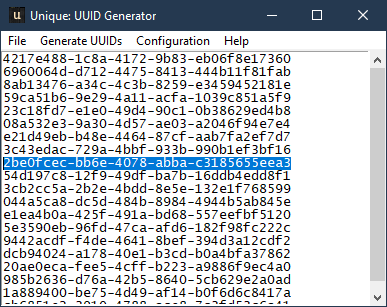
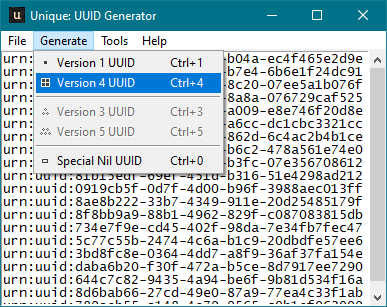
updated readme with gui and Unique() class changes

diff --git a/README.md b/README.md
@@ -1,5 +1,5 @@
-# Unique: UUID Generation (in Python) ![](icon/32.png)
-"Unique", the UUID generator tool. ```unique_gui.py``` and ```unique.py``` will generate UUIDs in a variety of flavours. This project builds on code originally developed in 2016; leveraging different python libraries to provide all the uuid related features in a single project. Windows Executables created with pyinstaller 4.0.
+# Unique: UUID Generation (in Python) ![](unique/icon/32.png)
+"Unique": the UUID generator tool. ```unique.py``` will generate UUIDs (using a CLI) in a variey of flavours whilst ```unique_gui.py``` wraps this up in a pretty GUI. This project in availble as native python source, a windows executable and docker image.
 
 >__Note:__ A Version 4 UUID is the default, safe and extremely random output of this tool.
 
@@ -26,41 +26,58 @@ A universally unique identifier (UUID) is a 128-bit number used to identify info
 * [MAC Address](https://www.ibm.com/support/knowledgecenter/en/SSYKE2_7.0.0/com.ibm.java.security.component.70.doc/security-component/keytoolDocs/x500dnames.html)
 
 # Usage
-## Grapphical User Interface (```unique_gui.py```)
-Using the ```tkinter``` library, a gui is available to generate UUIDs for those not comfortable with the command line. Simply open/execute ```% python3 unique_gui.py```/```unique-gui.exe``` to be presented with the following grpahical interface:
+## Graphical User Interface (```unique_gui.py```)
+Using the ```tkinter``` library, a gui is available to generate UUIDs for those not comfortable with the command line. Simply open/execute ```python3 unique_gui.py``` to be presented with the following graphical interface:
 
-Windows                  | Linux
--------------------------|---------------
-![](screenshots/gui.png) | <span style="color:red">Work in Progres...</span>
+&nbsp;    | Windows                           | Linux
+----------|-----------------------------------|--------------------------
+_Unique_  | ![](screenshot-win10.gif)         | ![](screenshot-linux.png)
+Options   | ![](screenshot-win10-options.png) | ![](screenshot-linux.png)
+About     | ![](screenshot-win10-about.png)   | ![](screenshot-linux.png)
 
 <br>
 
 The following Menu options are availble:
 * File
   * __New__: Clear-down the UUIDs in the current tool, ready for new generation
-  * __Open__: Open a text (```.txt```) file, useful for appending UUIDs
-  * __Save__: Save the current UUIDs to a text (```.txt```) file
+  * __Open__: Open a text (```.txt```/```.uuid```) file, useful for appending UUIDs
+  * __Save__: Save the current UUIDs to a text (```.txt```/```.uuid```) file
+  * __Save As..__: Save the current UUIDs to a new text (```.txt```/```.uuid```) file
   * __Quit__
 * Generate
-  * __Version 1__: Generare a Version 1 (Datetime & MAC Address) UUID
-  * __Version 4__: Generate a Version 4 UUID (based on RNG)
-  * ~~__Version 3__: Generate a Version 3 (MD5, Namespace & Name-based) UUID~~ (<span style="color:red">Work in Progres</span>)
-  * ~~__Version 5__: Generate a Version 5 (SHA-1, Namespace & Name-based) UUID~~
-  * __Special Nil UUID__: Generate a Nil UUID (_0's_) (<span style="color:red">Work in Progres</span>)
+  * __Version 1 UUID__: Generare a Version 1 (Datetime & MAC Address) UUID
+  * __Version 4 UUID__: Generate a Version 4 UUID (based on RNG)
+  * ~~__Version 3 UUID__: Generate a Version 3 (MD5, Namespace & Name-based) UUID~~
+  * ~~__Version 5 UUID__: Generate a Version 5 (SHA-1, Namespace & Name-based) UUID~~
+  * __Special Nil UUID__: Generate a Nil UUID (_0's_)
 * Tools
   * __Options__: Open the Options popup
 * Help
   * __About__: Opens a popup window with author/version information
+
+The following Keyboard Shortcuts are available:
+* __CTRL + N__: Clear-down the UUIDs in the current tool,ready for new generation
+* __CTRL + O__: Open a text (```.txt```/```.uuid```) file,useful for appending UUIDs
+* __CTRL + S__: Save the current UUIDs to a text (```.txt``````.uuid```) file
+* __CTRL + 0__: Generate a Nil UUID (_0's_)
+* __CTRL + 1__: Generare a Version 1 (Datetime & MAC Address)UUID
+* ~~__CTRL + 3__: Generate a Version 3 (MD5, Namespace &Name-based) UUID~~
+* __CTRL + 4__: Generate a Version 4 UUID (based on RNG)
+* ~~__CTRL + 5__: Generate a Version 5 (SHA-1, Namespace &Name-based) UUID~~
+* __F1__: Opens a popup window with author/version information
+* __F9__: Open the Options popup
+* __ALT + F4__: Exit/Quit
+
 ## Command Line / Bash (```unique.py```)
 ### Summary
 The following arguments are compatible with the respective UUID-version generation.
 Version | Switch | Specifics                  | Additional Options (__Bold = Mandatory__)
 --------|--------|----------------------------|-------------------------------------------
-0 / Nil | -v 0   | Special Nil UUID           | -q, -u, -U
-1       | -v 1   | Datetime and MAC address   | -q, -u, -U
-4       | -v 4   | Random Data                | -q, -u, -U
-3       | -v 3   | Namespace & Name-based     | -q, -u, -U, __--ns__, __-n__
-5       | -v 5   | Namespace & Name-based     | -q, -u, -U, __--ns__, __-n__
+0 / Nil | -v 0   | Special Nil UUID           | -q, -u, -U, -s
+1       | -v 1   | Datetime and MAC address   | -q, -u, -U, -s
+4       | -v 4   | Random Data                | -q, -u, -U, -s
+3       | -v 3   | Namespace & Name-based     | __--ns__, __-n__, -q, -u, -U, -s
+5       | -v 5   | Namespace & Name-based     | __--ns__, __-n__, -q, -u, -U, -s
 
 ### Usage Examples (Windows)
 
@@ -98,7 +115,7 @@ urn:uuid:1FDC56DF-BB86-3F0D-9356-8612ABA227FF
 
 # Display Help
 >./unique.py --help
-usage: unique.py [-h] [-v <VERSION>] [-q <QUANTITY>] [--ns <NAMESPACE>] [-n <NAME>] [-u] [-U]
+usage: unique.py [-h] [-v <VERSION>] [-q <QUANTITY>] [--ns <NAMESPACE>] [-n <NAME>] [-u | -U | -s]
 
 Generate a number of version specific UUIDs.
 
@@ -114,10 +131,11 @@ optional arguments:
                         Specify UUID v3 or v4 name
   -u, --urn             Specify URN standard prefix
   -U, --uppercase       Non-standard uppercase UUID string
+  -s, --short           Shortened UUID using Base64 Encoding
 ```
 
 ### Usage Example (Linux)
-<span style="color:red">Work in Progres...</span>
+<span style="color:red">_Work in Progres..._</span>
 
 ## Docker (```docker run --rm -it uuid:latest```)
 The project's Dockerfile can be utilised to create a platform independant container image; supporting the generation of UUIDs in cloud (e.g. Kubernetes/OpenShift) environments.
@@ -151,12 +169,11 @@ $ docker run --rm -it uuid:latest --help
 ```Unique``` is build with utilising the following Python 3 libraries:
 
 * ```uuid```
-* ```argparse```
-* ```tk``` (_including:_ messagebox, simpledialog)
-* ```re```
-* ```sys```
-* ```logging```
 * ```codecs```
+* ```re```
+* ```argparse```
+* ```tk```/```tkinter``` (including: ```messagebox```, ```simpledialog```, ```filedialog```)
+* ```logging```
 * ```pyinstaller```
 
 To utilise ```unique``` on multiple platforms Python 3 is required.
@@ -185,6 +202,7 @@ sudo apt-get install python3
 ## Other Software
 The following software was used to create this project:
 * Graphics and Images created with: [Paint.net](https://www.getpaint.net)
+* Microsoft [Visual Studio Image Library](https://www.microsoft.com/en-us/download/details.aspx?id=35825)
 * Windows Icon (```.ico```) file created with: [IcoFX Portable (1.6.4 Rev 3)](https://portableapps.com/apps/graphics_pictures/icofx_portable)
 * IDE: [Microsoft Visual Studio Code](https://code.visualstudio.com)
 
@@ -193,9 +211,9 @@ The following software was used to create this project:
 ## Project Icon
 The following project icon was created with paint.net. Using a screenshot of Powershell executing the creation of 20 Version 1 UUIDs. 4 image resolutions where then produced and compiled into the single compressed ```.ico``` format.
 
-![](icon/256.png) | ![](icon/48.png) | ![](icon/32.png) | ![](icon/16.png)
-------------------|------------------|------------------|-----------------
-__256x256:__      | __48x48:__       | __32x32:__       | __16x16:__
+![](unique/icon/256.png) | ![](unique/icon/48.png) | ![](unique/icon/32.png) | ![](unique/icon/16.png)
+-------------------------|-------------------------|-------------------------|------------------------
+256x256                  | 48x48                   | 32x32                   | 16x16
 
 ## Known Limitations
 The following are known limitations and probably wont get fixed. Feel free to raise a pull request if you can help:
@@ -211,28 +229,28 @@ Thanks to these great projects I was able to figure out how to use tkinter for t
 ## Roadmap
 ```Unique``` is a hobby project with no guarantees. I've been thinking about adding the following functionaity somewhere down the line though!:
 
-* ~~Support for more than UUIDv4~~
-* ~~Make code more Unix-like (no boilerplate on execution)~~
-* ~~Parameterise the number of returned UUIDs~~
-* ~~Special Nil UUID~~
-* ~~Support for standard UUID URN prefix~~
-* ~~Support for non-standard uppercase UUID~~
-* ~~Auto-generated help~~
+* ~~```CLI:``` Support for more than UUIDv4~~
+* ~~```CLI:``` Make code more Unix-like (no boilerplate on execution)~~
+* ~~```CLI:``` Parameterise the number of returned UUIDs~~
+* ~~```CLI:``` Special Nil UUID~~
+* ~~```CLI:``` Support for standard UUID URN prefix~~
+* ~~```CLI:``` Support for non-standard uppercase UUID~~
+* ~~```CLI:``` Auto-generated help~~
 * ~~Redo the Icon~~
-* ~~Adding support for uuid namespaces, enabling UUIDv3 and UUIDv5~~
+* ~~```CLI:``` Adding support for uuid namespaces, enabling UUIDv3 and UUIDv5~~
 * ~~Dockerise the commandline tool~~
-* ~~Add a Graphical User Interface~~
-* ~~Utilise a tools/options panel/frame/window~~
-* ~~Enable File: New/Open/Save/Save As.../Exit in the GUI~~
-* __GUI:__ Add Iconography to the Menu Bar
-* __GUI:__ Enable Keyboard Shortcuts in the GUI
+* ~~__GUI:__ Add a Graphical User Interface~~
+* ~~__GUI:__ Utilise a tools/options panel/frame/window~~
+* ~~__GUI:__ Enable File: New/Open/Save/Save As.../Exit in the GUI~~
+* ~~__GUI:__ Add Iconography to the Menu Bar~~
+* ~~__GUI:__ Enable Keyboard Shortcuts in the GUI~~
 * __GUI:__ Highlight Current Line
 * __GUI:__ Highlight Regex Version
 * __GUI:__ Add (floating?) File Information Pane
 * __GUI:__ Add UUIDv3 and UUIDv5
 * __GUI:__ Dark Mode
 * __GUI:__ Dockerise the GUI (as Web Application?)
-* ```CLI:``` Encode UUIDs in Base64 to reduce character length
+* ~~```CLI:``` Encode UUIDs in Base64 to reduce character length~~
 * ```CLI:``` Decode Base64 encoded UUID
 * ```CLI:``` Reverse-Engineer UUID: Version
 * ```CLI:``` Reverse-Engineer UUID: Date/Time
